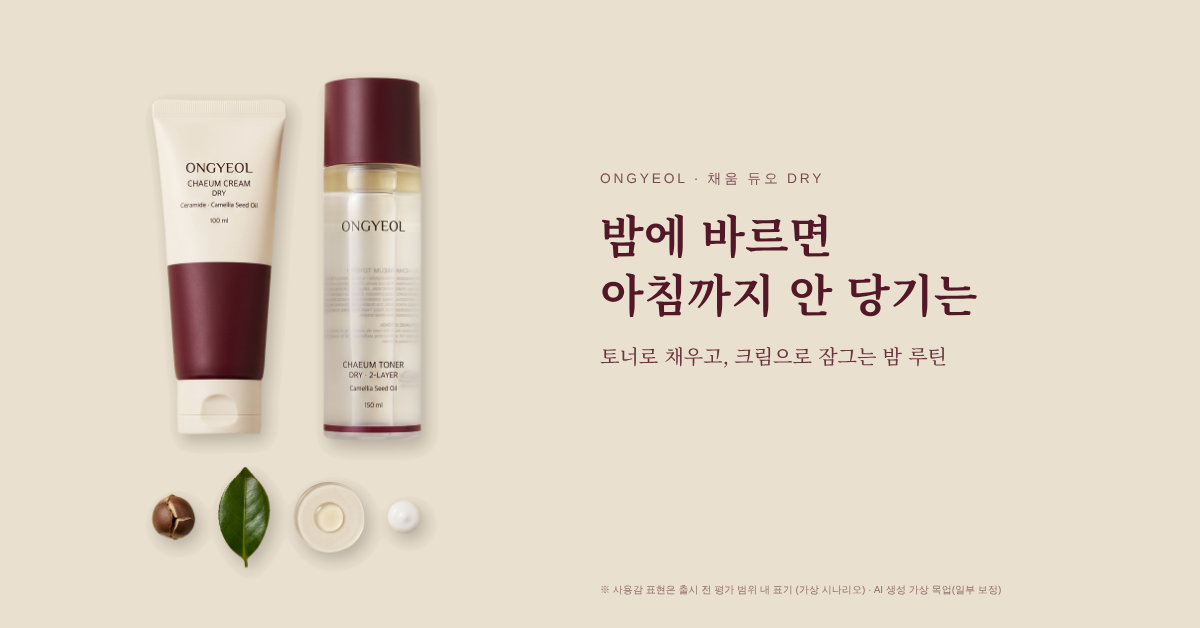
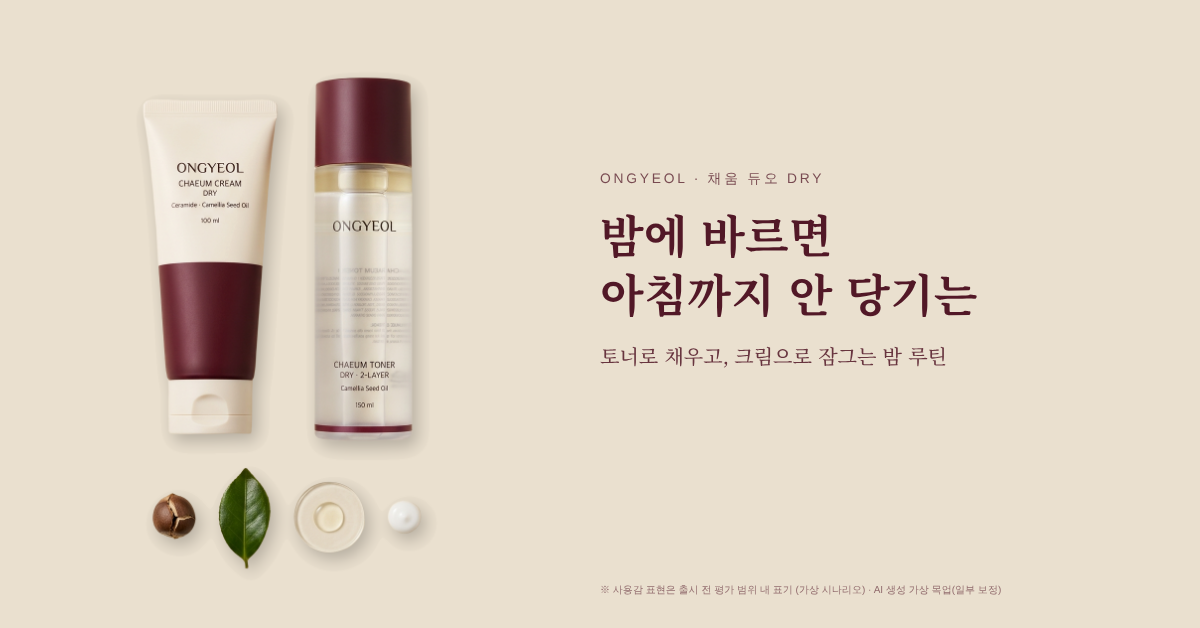
광고 v5: 명조 확정, 재료 배치 2안(균등 간격·두 제품 중심 가운데) 반영
Claude-Session: https://claude.ai/code/session_01MXYaLybSstgexbFSnpQ7Pc

diff --git a/디자인/이미지/선택/README.md b/디자인/이미지/선택/README.md
@@ -13,4 +13,4 @@
   - 합성_D6: v9 D6 배경(사진 + 와인 색면, 원래 크림은 옆 침구 질감으로 덮음) + 크림은 왼쪽 절반 중앙, 토너는 오른쪽 절반 중앙에 배치 (11-22 수정)
   - 보정_D8: v10 D8 토너의 오일층 아래 전이 구간 색을 물 색으로 보정 → 오일층 약 5% 두께
 - 포트폴리오 표기: "AI로 생성한 가상 브랜드 목업 (일부 합성·보정)"
-- 보정_D8_정렬.png: 보정_D8 누끼 재배치. 배경 단색(#EAE0CF), 재료 4개 줄을 제품 2개 좌우 끝선에 맞추고 간격 균등, 전체 가로 중앙 정렬 (광고 v5용)
+- 보정_D8_정렬.png: 보정_D8 누끼 재배치. 배경 단색(#EAE0CF), 위아래 위치는 원본 유지, 재료 4개 균등 간격으로 크림·토너 중심의 가운데에 정렬 (광고 v5용, 11-23 배치 2안 확정)
